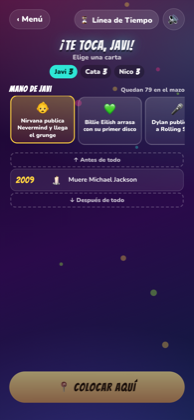
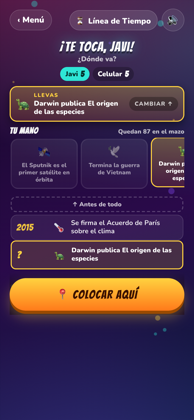
Línea de Tiempo: la carta elegida queda fija sobre la línea
Barra opaca 'Llevas: X' pegada arriba mientras se recorre la línea, con la mano
atenuada detrás y un atajo para volver a la mano y cambiar de carta.

diff --git a/index.html b/index.html
@@ -10,8 +10,8 @@
   <meta name="description" content="Juegos de salón para jugar con amigos: elige un juego, ingresa a los jugadores y deja que el celular guíe la partida.">
   <link rel="manifest" href="manifest.webmanifest">
   <link rel="icon" href="assets/icon.svg" type="image/svg+xml">
-  <script type="importmap" id="importmap">{"imports": {"./assets/js/ui.js": "./assets/js/ui.js?v=0.8.1", "./assets/js/i18n.js": "./assets/js/i18n.js?v=0.8.1", "./assets/js/sound.js": "./assets/js/sound.js?v=0.8.1", "./assets/js/games.js": "./assets/js/games.js?v=0.8.1", "./assets/js/firebase-config.js": "./assets/js/firebase-config.js?v=0.8.1", "./assets/js/frases.js": "./assets/js/frases.js?v=0.8.1", "./cuarto-rey/game.js": "./cuarto-rey/game.js?v=0.8.1", "./cuarto-rey/rules.js": "./cuarto-rey/rules.js?v=0.8.1", "./toque-y-fama/game.js": "./toque-y-fama/game.js?v=0.8.1", "./toque-y-fama/rules.js": "./toque-y-fama/rules.js?v=0.8.1", "./toque-y-fama/engine.js": "./toque-y-fama/engine.js?v=0.8.1", "./assets/js/transport/local.js": "./assets/js/transport/local.js?v=0.8.1", "./assets/js/transport/firebase.js": "./assets/js/transport/firebase.js?v=0.8.1", "./assets/js/handoff.js": "./assets/js/handoff.js?v=0.8.1", "./assets/js/session.js": "./assets/js/session.js?v=0.8.1", "./batalla-naval/game.js": "./batalla-naval/game.js?v=0.8.1", "./batalla-naval/rules.js": "./batalla-naval/rules.js?v=0.8.1", "./batalla-naval/engine.js": "./batalla-naval/engine.js?v=0.8.1", "./linea-de-tiempo/game.js": "./linea-de-tiempo/game.js?v=0.8.1", "./linea-de-tiempo/rules.js": "./linea-de-tiempo/rules.js?v=0.8.1", "./linea-de-tiempo/engine.js": "./linea-de-tiempo/engine.js?v=0.8.1", "./linea-de-tiempo/decks/index.js": "./linea-de-tiempo/decks/index.js?v=0.8.1", "./linea-de-tiempo/decks/historia.js": "./linea-de-tiempo/decks/historia.js?v=0.8.1", "./linea-de-tiempo/decks/musica.js": "./linea-de-tiempo/decks/musica.js?v=0.8.1"}}</script>
-  <link rel="stylesheet" href="assets/css/base.css?v=0.8.1">
+  <script type="importmap" id="importmap">{"imports": {"./assets/js/ui.js": "./assets/js/ui.js?v=0.8.2", "./assets/js/i18n.js": "./assets/js/i18n.js?v=0.8.2", "./assets/js/sound.js": "./assets/js/sound.js?v=0.8.2", "./assets/js/games.js": "./assets/js/games.js?v=0.8.2", "./assets/js/firebase-config.js": "./assets/js/firebase-config.js?v=0.8.2", "./assets/js/frases.js": "./assets/js/frases.js?v=0.8.2", "./cuarto-rey/game.js": "./cuarto-rey/game.js?v=0.8.2", "./cuarto-rey/rules.js": "./cuarto-rey/rules.js?v=0.8.2", "./toque-y-fama/game.js": "./toque-y-fama/game.js?v=0.8.2", "./toque-y-fama/rules.js": "./toque-y-fama/rules.js?v=0.8.2", "./toque-y-fama/engine.js": "./toque-y-fama/engine.js?v=0.8.2", "./assets/js/transport/local.js": "./assets/js/transport/local.js?v=0.8.2", "./assets/js/transport/firebase.js": "./assets/js/transport/firebase.js?v=0.8.2", "./assets/js/handoff.js": "./assets/js/handoff.js?v=0.8.2", "./assets/js/session.js": "./assets/js/session.js?v=0.8.2", "./batalla-naval/game.js": "./batalla-naval/game.js?v=0.8.2", "./batalla-naval/rules.js": "./batalla-naval/rules.js?v=0.8.2", "./batalla-naval/engine.js": "./batalla-naval/engine.js?v=0.8.2", "./linea-de-tiempo/game.js": "./linea-de-tiempo/game.js?v=0.8.2", "./linea-de-tiempo/rules.js": "./linea-de-tiempo/rules.js?v=0.8.2", "./linea-de-tiempo/engine.js": "./linea-de-tiempo/engine.js?v=0.8.2", "./linea-de-tiempo/decks/index.js": "./linea-de-tiempo/decks/index.js?v=0.8.2", "./linea-de-tiempo/decks/historia.js": "./linea-de-tiempo/decks/historia.js?v=0.8.2", "./linea-de-tiempo/decks/musica.js": "./linea-de-tiempo/decks/musica.js?v=0.8.2"}}</script>
+  <link rel="stylesheet" href="assets/css/base.css?v=0.8.2">
   <style>
     .hero { text-align: center; padding: 28px 0 18px; }
     .hero .emoji { font-size: 3.2rem; display: block; margin-bottom: 6px; }
@@ -57,7 +57,7 @@
 
     <footer>
       <p class="footer-msg" id="footer-msg" aria-live="polite">Toma con responsabilidad y con agua a mano. Si manejas, no tomas. 🚕</p>
-      <p class="muted">v0.8.1 · <a href="https://github.com/ellokojavi/juegos-de-salon" style="color:inherit" data-i18n="code">código en GitHub</a></p>
+      <p class="muted">v0.8.2 · <a href="https://github.com/ellokojavi/juegos-de-salon" style="color:inherit" data-i18n="code">código en GitHub</a></p>
     </footer>
   </main>
 

diff --git a/linea-de-tiempo/index.html b/linea-de-tiempo/index.html
@@ -9,9 +9,9 @@
   <title>Línea de Tiempo ⏳ · Juegos de Salón</title>
   <link rel="manifest" href="../manifest.webmanifest">
   <link rel="icon" href="../assets/icon.svg" type="image/svg+xml">
-  <script type="importmap" id="importmap">{"imports": {"../assets/js/ui.js": "../assets/js/ui.js?v=0.8.1", "../assets/js/i18n.js": "../assets/js/i18n.js?v=0.8.1", "../assets/js/sound.js": "../assets/js/sound.js?v=0.8.1", "../assets/js/games.js": "../assets/js/games.js?v=0.8.1", "../assets/js/firebase-config.js": "../assets/js/firebase-config.js?v=0.8.1", "../assets/js/frases.js": "../assets/js/frases.js?v=0.8.1", "../cuarto-rey/game.js": "../cuarto-rey/game.js?v=0.8.1", "../cuarto-rey/rules.js": "../cuarto-rey/rules.js?v=0.8.1", "../toque-y-fama/game.js": "../toque-y-fama/game.js?v=0.8.1", "../toque-y-fama/rules.js": "../toque-y-fama/rules.js?v=0.8.1", "../toque-y-fama/engine.js": "../toque-y-fama/engine.js?v=0.8.1", "../assets/js/transport/local.js": "../assets/js/transport/local.js?v=0.8.1", "../assets/js/transport/firebase.js": "../assets/js/transport/firebase.js?v=0.8.1", "../assets/js/handoff.js": "../assets/js/handoff.js?v=0.8.1", "../assets/js/session.js": "../assets/js/session.js?v=0.8.1", "../batalla-naval/game.js": "../batalla-naval/game.js?v=0.8.1", "../batalla-naval/rules.js": "../batalla-naval/rules.js?v=0.8.1", "../batalla-naval/engine.js": "../batalla-naval/engine.js?v=0.8.1", "../linea-de-tiempo/game.js": "../linea-de-tiempo/game.js?v=0.8.1", "../linea-de-tiempo/rules.js": "../linea-de-tiempo/rules.js?v=0.8.1", "../linea-de-tiempo/engine.js": "../linea-de-tiempo/engine.js?v=0.8.1", "../linea-de-tiempo/decks/index.js": "../linea-de-tiempo/decks/index.js?v=0.8.1", "../linea-de-tiempo/decks/historia.js": "../linea-de-tiempo/decks/historia.js?v=0.8.1", "../linea-de-tiempo/decks/musica.js": "../linea-de-tiempo/decks/musica.js?v=0.8.1"}}</script>
-  <link rel="stylesheet" href="../assets/css/base.css?v=0.8.1">
-  <link rel="stylesheet" href="style.css?v=0.8.1">
+  <script type="importmap" id="importmap">{"imports": {"../assets/js/ui.js": "../assets/js/ui.js?v=0.8.2", "../assets/js/i18n.js": "../assets/js/i18n.js?v=0.8.2", "../assets/js/sound.js": "../assets/js/sound.js?v=0.8.2", "../assets/js/games.js": "../assets/js/games.js?v=0.8.2", "../assets/js/firebase-config.js": "../assets/js/firebase-config.js?v=0.8.2", "../assets/js/frases.js": "../assets/js/frases.js?v=0.8.2", "../cuarto-rey/game.js": "../cuarto-rey/game.js?v=0.8.2", "../cuarto-rey/rules.js": "../cuarto-rey/rules.js?v=0.8.2", "../toque-y-fama/game.js": "../toque-y-fama/game.js?v=0.8.2", "../toque-y-fama/rules.js": "../toque-y-fama/rules.js?v=0.8.2", "../toque-y-fama/engine.js": "../toque-y-fama/engine.js?v=0.8.2", "../assets/js/transport/local.js": "../assets/js/transport/local.js?v=0.8.2", "../assets/js/transport/firebase.js": "../assets/js/transport/firebase.js?v=0.8.2", "../assets/js/handoff.js": "../assets/js/handoff.js?v=0.8.2", "../assets/js/session.js": "../assets/js/session.js?v=0.8.2", "../batalla-naval/game.js": "../batalla-naval/game.js?v=0.8.2", "../batalla-naval/rules.js": "../batalla-naval/rules.js?v=0.8.2", "../batalla-naval/engine.js": "../batalla-naval/engine.js?v=0.8.2", "../linea-de-tiempo/game.js": "../linea-de-tiempo/game.js?v=0.8.2", "../linea-de-tiempo/rules.js": "../linea-de-tiempo/rules.js?v=0.8.2", "../linea-de-tiempo/engine.js": "../linea-de-tiempo/engine.js?v=0.8.2", "../linea-de-tiempo/decks/index.js": "../linea-de-tiempo/decks/index.js?v=0.8.2", "../linea-de-tiempo/decks/historia.js": "../linea-de-tiempo/decks/historia.js?v=0.8.2", "../linea-de-tiempo/decks/musica.js": "../linea-de-tiempo/decks/musica.js?v=0.8.2"}}</script>
+  <link rel="stylesheet" href="../assets/css/base.css?v=0.8.2">
+  <link rel="stylesheet" href="style.css?v=0.8.2">
 </head>
 <body>
   <main class="app" id="app">
@@ -47,6 +47,7 @@
     <section class="screen" id="screen-play">
       <div class="status"><div class="who" id="status-who"></div><div class="sub" id="status-sub"></div></div>
       <div class="score" id="score"></div>
+      <div class="carry" id="carry" hidden></div>
       <div class="hand-title"><b id="hand-title"></b><small id="pool-left"></small></div>
       <div class="hand" id="hand"></div>
       <div class="line-wrap" id="line-wrap"><div class="line" id="line"></div></div>

diff --git a/batalla-naval/index.html b/batalla-naval/index.html
@@ -9,9 +9,9 @@
   <title>Batalla Naval ⚓ · Juegos de Salón</title>
   <link rel="manifest" href="../manifest.webmanifest">
   <link rel="icon" href="../assets/icon.svg" type="image/svg+xml">
-  <script type="importmap" id="importmap">{"imports": {"../assets/js/ui.js": "../assets/js/ui.js?v=0.8.1", "../assets/js/i18n.js": "../assets/js/i18n.js?v=0.8.1", "../assets/js/sound.js": "../assets/js/sound.js?v=0.8.1", "../assets/js/games.js": "../assets/js/games.js?v=0.8.1", "../assets/js/firebase-config.js": "../assets/js/firebase-config.js?v=0.8.1", "../assets/js/frases.js": "../assets/js/frases.js?v=0.8.1", "../cuarto-rey/game.js": "../cuarto-rey/game.js?v=0.8.1", "../cuarto-rey/rules.js": "../cuarto-rey/rules.js?v=0.8.1", "../toque-y-fama/game.js": "../toque-y-fama/game.js?v=0.8.1", "../toque-y-fama/rules.js": "../toque-y-fama/rules.js?v=0.8.1", "../toque-y-fama/engine.js": "../toque-y-fama/engine.js?v=0.8.1", "../assets/js/transport/local.js": "../assets/js/transport/local.js?v=0.8.1", "../assets/js/transport/firebase.js": "../assets/js/transport/firebase.js?v=0.8.1", "../assets/js/handoff.js": "../assets/js/handoff.js?v=0.8.1", "../assets/js/session.js": "../assets/js/session.js?v=0.8.1", "../batalla-naval/game.js": "../batalla-naval/game.js?v=0.8.1", "../batalla-naval/rules.js": "../batalla-naval/rules.js?v=0.8.1", "../batalla-naval/engine.js": "../batalla-naval/engine.js?v=0.8.1", "../linea-de-tiempo/game.js": "../linea-de-tiempo/game.js?v=0.8.1", "../linea-de-tiempo/rules.js": "../linea-de-tiempo/rules.js?v=0.8.1", "../linea-de-tiempo/engine.js": "../linea-de-tiempo/engine.js?v=0.8.1", "../linea-de-tiempo/decks/index.js": "../linea-de-tiempo/decks/index.js?v=0.8.1", "../linea-de-tiempo/decks/historia.js": "../linea-de-tiempo/decks/historia.js?v=0.8.1", "../linea-de-tiempo/decks/musica.js": "../linea-de-tiempo/decks/musica.js?v=0.8.1"}}</script>
-  <link rel="stylesheet" href="../assets/css/base.css?v=0.8.1">
-  <link rel="stylesheet" href="style.css?v=0.8.1">
+  <script type="importmap" id="importmap">{"imports": {"../assets/js/ui.js": "../assets/js/ui.js?v=0.8.2", "../assets/js/i18n.js": "../assets/js/i18n.js?v=0.8.2", "../assets/js/sound.js": "../assets/js/sound.js?v=0.8.2", "../assets/js/games.js": "../assets/js/games.js?v=0.8.2", "../assets/js/firebase-config.js": "../assets/js/firebase-config.js?v=0.8.2", "../assets/js/frases.js": "../assets/js/frases.js?v=0.8.2", "../cuarto-rey/game.js": "../cuarto-rey/game.js?v=0.8.2", "../cuarto-rey/rules.js": "../cuarto-rey/rules.js?v=0.8.2", "../toque-y-fama/game.js": "../toque-y-fama/game.js?v=0.8.2", "../toque-y-fama/rules.js": "../toque-y-fama/rules.js?v=0.8.2", "../toque-y-fama/engine.js": "../toque-y-fama/engine.js?v=0.8.2", "../assets/js/transport/local.js": "../assets/js/transport/local.js?v=0.8.2", "../assets/js/transport/firebase.js": "../assets/js/transport/firebase.js?v=0.8.2", "../assets/js/handoff.js": "../assets/js/handoff.js?v=0.8.2", "../assets/js/session.js": "../assets/js/session.js?v=0.8.2", "../batalla-naval/game.js": "../batalla-naval/game.js?v=0.8.2", "../batalla-naval/rules.js": "../batalla-naval/rules.js?v=0.8.2", "../batalla-naval/engine.js": "../batalla-naval/engine.js?v=0.8.2", "../linea-de-tiempo/game.js": "../linea-de-tiempo/game.js?v=0.8.2", "../linea-de-tiempo/rules.js": "../linea-de-tiempo/rules.js?v=0.8.2", "../linea-de-tiempo/engine.js": "../linea-de-tiempo/engine.js?v=0.8.2", "../linea-de-tiempo/decks/index.js": "../linea-de-tiempo/decks/index.js?v=0.8.2", "../linea-de-tiempo/decks/historia.js": "../linea-de-tiempo/decks/historia.js?v=0.8.2", "../linea-de-tiempo/decks/musica.js": "../linea-de-tiempo/decks/musica.js?v=0.8.2"}}</script>
+  <link rel="stylesheet" href="../assets/css/base.css?v=0.8.2">
+  <link rel="stylesheet" href="style.css?v=0.8.2">
 </head>
 <body>
   <main class="app" id="app">

diff --git a/toque-y-fama/index.html b/toque-y-fama/index.html
@@ -9,9 +9,9 @@
   <title>Toque y Fama 🔢 · Juegos de Salón</title>
   <link rel="manifest" href="../manifest.webmanifest">
   <link rel="icon" href="../assets/icon.svg" type="image/svg+xml">
-  <script type="importmap" id="importmap">{"imports": {"../assets/js/ui.js": "../assets/js/ui.js?v=0.8.1", "../assets/js/i18n.js": "../assets/js/i18n.js?v=0.8.1", "../assets/js/sound.js": "../assets/js/sound.js?v=0.8.1", "../assets/js/games.js": "../assets/js/games.js?v=0.8.1", "../assets/js/firebase-config.js": "../assets/js/firebase-config.js?v=0.8.1", "../assets/js/frases.js": "../assets/js/frases.js?v=0.8.1", "../cuarto-rey/game.js": "../cuarto-rey/game.js?v=0.8.1", "../cuarto-rey/rules.js": "../cuarto-rey/rules.js?v=0.8.1", "../toque-y-fama/game.js": "../toque-y-fama/game.js?v=0.8.1", "../toque-y-fama/rules.js": "../toque-y-fama/rules.js?v=0.8.1", "../toque-y-fama/engine.js": "../toque-y-fama/engine.js?v=0.8.1", "../assets/js/transport/local.js": "../assets/js/transport/local.js?v=0.8.1", "../assets/js/transport/firebase.js": "../assets/js/transport/firebase.js?v=0.8.1", "../assets/js/handoff.js": "../assets/js/handoff.js?v=0.8.1", "../assets/js/session.js": "../assets/js/session.js?v=0.8.1", "../batalla-naval/game.js": "../batalla-naval/game.js?v=0.8.1", "../batalla-naval/rules.js": "../batalla-naval/rules.js?v=0.8.1", "../batalla-naval/engine.js": "../batalla-naval/engine.js?v=0.8.1", "../linea-de-tiempo/game.js": "../linea-de-tiempo/game.js?v=0.8.1", "../linea-de-tiempo/rules.js": "../linea-de-tiempo/rules.js?v=0.8.1", "../linea-de-tiempo/engine.js": "../linea-de-tiempo/engine.js?v=0.8.1", "../linea-de-tiempo/decks/index.js": "../linea-de-tiempo/decks/index.js?v=0.8.1", "../linea-de-tiempo/decks/historia.js": "../linea-de-tiempo/decks/historia.js?v=0.8.1", "../linea-de-tiempo/decks/musica.js": "../linea-de-tiempo/decks/musica.js?v=0.8.1"}}</script>
-  <link rel="stylesheet" href="../assets/css/base.css?v=0.8.1">
-  <link rel="stylesheet" href="style.css?v=0.8.1">
+  <script type="importmap" id="importmap">{"imports": {"../assets/js/ui.js": "../assets/js/ui.js?v=0.8.2", "../assets/js/i18n.js": "../assets/js/i18n.js?v=0.8.2", "../assets/js/sound.js": "../assets/js/sound.js?v=0.8.2", "../assets/js/games.js": "../assets/js/games.js?v=0.8.2", "../assets/js/firebase-config.js": "../assets/js/firebase-config.js?v=0.8.2", "../assets/js/frases.js": "../assets/js/frases.js?v=0.8.2", "../cuarto-rey/game.js": "../cuarto-rey/game.js?v=0.8.2", "../cuarto-rey/rules.js": "../cuarto-rey/rules.js?v=0.8.2", "../toque-y-fama/game.js": "../toque-y-fama/game.js?v=0.8.2", "../toque-y-fama/rules.js": "../toque-y-fama/rules.js?v=0.8.2", "../toque-y-fama/engine.js": "../toque-y-fama/engine.js?v=0.8.2", "../assets/js/transport/local.js": "../assets/js/transport/local.js?v=0.8.2", "../assets/js/transport/firebase.js": "../assets/js/transport/firebase.js?v=0.8.2", "../assets/js/handoff.js": "../assets/js/handoff.js?v=0.8.2", "../assets/js/session.js": "../assets/js/session.js?v=0.8.2", "../batalla-naval/game.js": "../batalla-naval/game.js?v=0.8.2", "../batalla-naval/rules.js": "../batalla-naval/rules.js?v=0.8.2", "../batalla-naval/engine.js": "../batalla-naval/engine.js?v=0.8.2", "../linea-de-tiempo/game.js": "../linea-de-tiempo/game.js?v=0.8.2", "../linea-de-tiempo/rules.js": "../linea-de-tiempo/rules.js?v=0.8.2", "../linea-de-tiempo/engine.js": "../linea-de-tiempo/engine.js?v=0.8.2", "../linea-de-tiempo/decks/index.js": "../linea-de-tiempo/decks/index.js?v=0.8.2", "../linea-de-tiempo/decks/historia.js": "../linea-de-tiempo/decks/historia.js?v=0.8.2", "../linea-de-tiempo/decks/musica.js": "../linea-de-tiempo/decks/musica.js?v=0.8.2"}}</script>
+  <link rel="stylesheet" href="../assets/css/base.css?v=0.8.2">
+  <link rel="stylesheet" href="style.css?v=0.8.2">
 </head>
 <body>
   <main class="app" id="app">

diff --git a/cuarto-rey/index.html b/cuarto-rey/index.html
@@ -9,9 +9,9 @@
   <title>Cuarto Rey 👑 · Juegos de Salón</title>
   <link rel="manifest" href="../manifest.webmanifest">
   <link rel="icon" href="../assets/icon.svg" type="image/svg+xml">
-  <script type="importmap" id="importmap">{"imports": {"../assets/js/ui.js": "../assets/js/ui.js?v=0.8.1", "../assets/js/i18n.js": "../assets/js/i18n.js?v=0.8.1", "../assets/js/sound.js": "../assets/js/sound.js?v=0.8.1", "../assets/js/games.js": "../assets/js/games.js?v=0.8.1", "../assets/js/firebase-config.js": "../assets/js/firebase-config.js?v=0.8.1", "../assets/js/frases.js": "../assets/js/frases.js?v=0.8.1", "../cuarto-rey/game.js": "../cuarto-rey/game.js?v=0.8.1", "../cuarto-rey/rules.js": "../cuarto-rey/rules.js?v=0.8.1", "../toque-y-fama/game.js": "../toque-y-fama/game.js?v=0.8.1", "../toque-y-fama/rules.js": "../toque-y-fama/rules.js?v=0.8.1", "../toque-y-fama/engine.js": "../toque-y-fama/engine.js?v=0.8.1", "../assets/js/transport/local.js": "../assets/js/transport/local.js?v=0.8.1", "../assets/js/transport/firebase.js": "../assets/js/transport/firebase.js?v=0.8.1", "../assets/js/handoff.js": "../assets/js/handoff.js?v=0.8.1", "../assets/js/session.js": "../assets/js/session.js?v=0.8.1", "../batalla-naval/game.js": "../batalla-naval/game.js?v=0.8.1", "../batalla-naval/rules.js": "../batalla-naval/rules.js?v=0.8.1", "../batalla-naval/engine.js": "../batalla-naval/engine.js?v=0.8.1", "../linea-de-tiempo/game.js": "../linea-de-tiempo/game.js?v=0.8.1", "../linea-de-tiempo/rules.js": "../linea-de-tiempo/rules.js?v=0.8.1", "../linea-de-tiempo/engine.js": "../linea-de-tiempo/engine.js?v=0.8.1", "../linea-de-tiempo/decks/index.js": "../linea-de-tiempo/decks/index.js?v=0.8.1", "../linea-de-tiempo/decks/historia.js": "../linea-de-tiempo/decks/historia.js?v=0.8.1", "../linea-de-tiempo/decks/musica.js": "../linea-de-tiempo/decks/musica.js?v=0.8.1"}}</script>
-  <link rel="stylesheet" href="../assets/css/base.css?v=0.8.1">
-  <link rel="stylesheet" href="style.css?v=0.8.1">
+  <script type="importmap" id="importmap">{"imports": {"../assets/js/ui.js": "../assets/js/ui.js?v=0.8.2", "../assets/js/i18n.js": "../assets/js/i18n.js?v=0.8.2", "../assets/js/sound.js": "../assets/js/sound.js?v=0.8.2", "../assets/js/games.js": "../assets/js/games.js?v=0.8.2", "../assets/js/firebase-config.js": "../assets/js/firebase-config.js?v=0.8.2", "../assets/js/frases.js": "../assets/js/frases.js?v=0.8.2", "../cuarto-rey/game.js": "../cuarto-rey/game.js?v=0.8.2", "../cuarto-rey/rules.js": "../cuarto-rey/rules.js?v=0.8.2", "../toque-y-fama/game.js": "../toque-y-fama/game.js?v=0.8.2", "../toque-y-fama/rules.js": "../toque-y-fama/rules.js?v=0.8.2", "../toque-y-fama/engine.js": "../toque-y-fama/engine.js?v=0.8.2", "../assets/js/transport/local.js": "../assets/js/transport/local.js?v=0.8.2", "../assets/js/transport/firebase.js": "../assets/js/transport/firebase.js?v=0.8.2", "../assets/js/handoff.js": "../assets/js/handoff.js?v=0.8.2", "../assets/js/session.js": "../assets/js/session.js?v=0.8.2", "../batalla-naval/game.js": "../batalla-naval/game.js?v=0.8.2", "../batalla-naval/rules.js": "../batalla-naval/rules.js?v=0.8.2", "../batalla-naval/engine.js": "../batalla-naval/engine.js?v=0.8.2", "../linea-de-tiempo/game.js": "../linea-de-tiempo/game.js?v=0.8.2", "../linea-de-tiempo/rules.js": "../linea-de-tiempo/rules.js?v=0.8.2", "../linea-de-tiempo/engine.js": "../linea-de-tiempo/engine.js?v=0.8.2", "../linea-de-tiempo/decks/index.js": "../linea-de-tiempo/decks/index.js?v=0.8.2", "../linea-de-tiempo/decks/historia.js": "../linea-de-tiempo/decks/historia.js?v=0.8.2", "../linea-de-tiempo/decks/musica.js": "../linea-de-tiempo/decks/musica.js?v=0.8.2"}}</script>
+  <link rel="stylesheet" href="../assets/css/base.css?v=0.8.2">
+  <link rel="stylesheet" href="style.css?v=0.8.2">
 </head>
 <body>
   <main class="app" id="app">

diff --git a/linea-de-tiempo/style.css b/linea-de-tiempo/style.css
@@ -46,6 +46,24 @@
 .score .p.turn { background: var(--cyan); color: #03302c; }
 .score .p .n { font-family: var(--font-display); font-size: 1rem; }
 
+/* Carta que el jugador lleva en la mano mientras recorre la línea (queda fija arriba) */
+.carry {
+  position: sticky; top: 0; z-index: 6; display: grid; grid-template-columns: auto 1fr auto; align-items: center; gap: 8px;
+  padding: 8px 10px; margin: 2px 0 4px; border-radius: 14px;
+  /* Opaca: la línea pasa por debajo al desplazar y el texto no debe transparentarse */
+  background: linear-gradient(180deg, rgba(74, 45, 14, 0.985), rgba(52, 24, 34, 0.985));
+  border: 2px solid var(--yellow); box-shadow: 0 6px 18px rgba(0, 0, 0, 0.45);
+  backdrop-filter: blur(8px); -webkit-backdrop-filter: blur(8px);
+  animation: pop 0.3s cubic-bezier(0.2, 0.9, 0.3, 1.4) both;
+}
+.carry .em { font-size: 1.7rem; }
+.carry .txt { display: grid; gap: 1px; min-width: 0; }
+.carry .lbl { font-size: 0.65rem; font-weight: 900; letter-spacing: 0.12em; text-transform: uppercase; color: var(--yellow); }
+.carry .t { font-size: 0.85rem; font-weight: 800; line-height: 1.2; }
+.carry { cursor: pointer; }
+.carry:active { transform: scale(0.99); }
+.carry .change { font-size: 0.7rem; font-weight: 900; text-transform: uppercase; letter-spacing: 0.08em; color: var(--muted); background: rgba(0,0,0,0.3); padding: 6px 10px; border-radius: 999px; white-space: nowrap; }
+
 /* Mano */
 .hand-title { display: flex; justify-content: space-between; align-items: baseline; margin: 4px 0; }
 .hand-title b { font-family: var(--font-display); font-size: 1.05rem; letter-spacing: 0.05em; }
@@ -60,6 +78,7 @@
 .hand .card .em { font-size: 1.5rem; }
 .hand .card .t { font-size: 0.72rem; font-weight: 800; line-height: 1.25; }
 .hand .card.sel { border-color: var(--yellow); background: linear-gradient(180deg, rgba(255,210,63,0.3), rgba(255,122,26,0.15)); transform: translateY(-3px); }
+.hand.dim .card:not(.sel) { opacity: 0.55; }
 .hand .card:active { transform: scale(0.97); }
 
 /* Línea de tiempo */

diff --git a/linea-de-tiempo/rules.js b/linea-de-tiempo/rules.js
@@ -25,7 +25,7 @@ const ES = {
   errName: 'Falta el nombre.', errNames: 'Faltan nombres o están repetidos.',
   // juego
   turnYou: '¡Te toca, {name}!', turnOther: 'Turno de {name}', cpuThinking: 'El celular está pensando…',
-  yourHand: 'Tu mano', handOf: 'Mano de {name}', pickCard: 'Elige una carta', pickSlot: '¿Dónde va?', place: '📍 Colocar aquí',
+  carrying: 'Llevas', changeCard: 'Cambiar', yourHand: 'Tu mano', handOf: 'Mano de {name}', pickCard: 'Elige una carta', pickSlot: '¿Dónde va?', place: '📍 Colocar aquí',
   timeline: 'Línea de tiempo', cardsLeft: '{n}', poolLeft: 'Quedan {n} en el mazo',
   slotFirst: '↑ Antes de todo', slotLast: '↓ Después de todo', slotBetween: 'Aquí',
   correct: '¡Correcto!', wrong: 'Nop…', wasYear: 'Era {year}', goesHere: 'Iba aquí ↓', drewNew: 'Robas una carta nueva',
@@ -52,7 +52,7 @@ const EN = {
   yourName: 'Your name', cpuName: 'Phone', start: 'Let\'s play!',
   errName: 'Name missing.', errNames: 'Names missing or repeated.',
   turnYou: 'Your turn, {name}!', turnOther: '{name}\'s turn', cpuThinking: 'The phone is thinking…',
-  yourHand: 'Your hand', handOf: '{name}\'s hand', pickCard: 'Pick a card', pickSlot: 'Where does it go?', place: '📍 Place it here',
+  carrying: 'Carrying', changeCard: 'Change', yourHand: 'Your hand', handOf: '{name}\'s hand', pickCard: 'Pick a card', pickSlot: 'Where does it go?', place: '📍 Place it here',
   timeline: 'Timeline', cardsLeft: '{n}', poolLeft: '{n} left in the deck',
   slotFirst: '↑ Before everything', slotLast: '↓ After everything', slotBetween: 'Here',
   correct: 'Correct!', wrong: 'Nope…', wasYear: 'It was {year}', goesHere: 'It goes here ↓', drewNew: 'You draw a new card',

diff --git a/linea-de-tiempo/game.js b/linea-de-tiempo/game.js
@@ -168,6 +168,21 @@ function renderPlay(v) {
       el('span', { class: 'em' }, c.emoji), el('span', { class: 't' }, c[lang])));
   }
 
+  // Carta que se lleva: queda fija arriba mientras se recorre la línea
+  const carry = $('#carry');
+  if (isLocalTurn && S.selCard) {
+    const c = v.byId[S.selCard];
+    // Tocar la barra devuelve a la mano para cambiar de carta sin buscarla desplazando
+    carry.hidden = false; carry.innerHTML = '';
+    carry.append(
+      el('span', { class: 'em' }, c.emoji),
+      el('span', { class: 'txt' }, el('span', { class: 'lbl' }, T.carrying), el('span', { class: 't' }, c[lang])),
+      el('span', { class: 'change' }, T.changeCard, ' ↑'),
+    );
+    carry.onclick = () => { SFX.tap(); $('#hand').scrollIntoView({ block: 'center', behavior: 'smooth' }); };
+    handBox.classList.add('dim');
+  } else { carry.hidden = true; carry.innerHTML = ''; handBox.classList.remove('dim'); }
+
   // Línea de tiempo con ranuras
   const line = $('#line'); line.innerHTML = '';
   const sel = S.selCard ? v.byId[S.selCard] : null;

diff --git a/docs/juegos/linea-de-tiempo.md b/docs/juegos/linea-de-tiempo.md
@@ -66,7 +66,7 @@ falta mensajes de respuesta.
   un celular. Cada hito es una fila con año, emoji y título. Entre filas hay **ranuras tocables**;
   también hay ranura antes de la primera y después de la última.
 - Arriba, la **carta en juego** grande, con emoji y título, sin año.
-- Se toca una ranura para elegirla y luego **📍 Colocar aquí** para confirmar (C-8).
+- La carta elegida queda **fija en una barra sobre la línea** mientras se busca la ranura, con la mano atenuada detrás; tocar la barra vuelve a la mano. Se toca una ranura y luego **📍 Colocar aquí** para confirmar (C-8), botón que flota abajo.
 - Al confirmar, la carta se revela con su año y se anima entrando a la línea si acertó, o se cae
   al descarte si falló, con sonido y vibración distintos.
 - La línea larga vive en un contenedor con su propio desplazamiento vertical, y salta sola a la zona

diff --git a/CHANGELOG.md b/CHANGELOG.md
@@ -1,5 +1,8 @@
 # Changelog
 
+## 0.8.2 — 2026-09-09
+- Línea de Tiempo: la carta elegida queda fija en una barra sobre la línea mientras se busca dónde ponerla, con la mano atenuada detrás. Tocar la barra vuelve a la mano para cambiar de carta.
+
 ## 0.8.1 — 2026-09-09
 - Línea de Tiempo: el botón “Colocar aquí” ahora flota sobre la línea. Con doce o más hitos quedaba fuera de la pantalla y había que desplazarse para confirmar.
 
